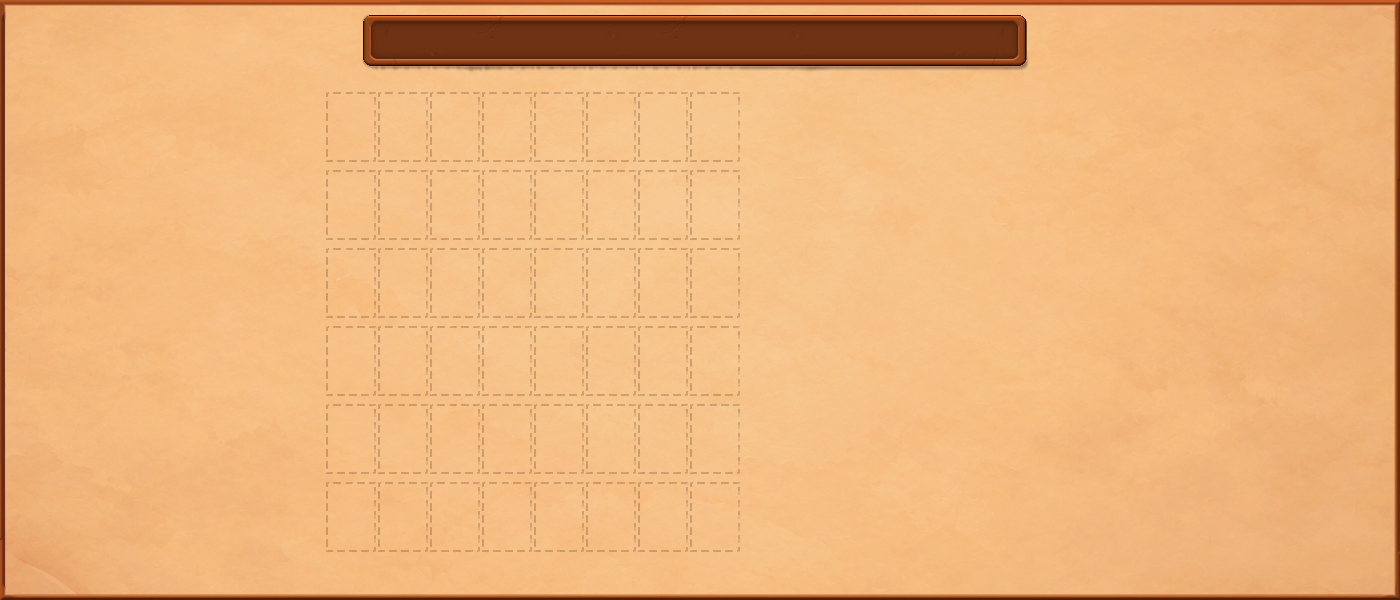
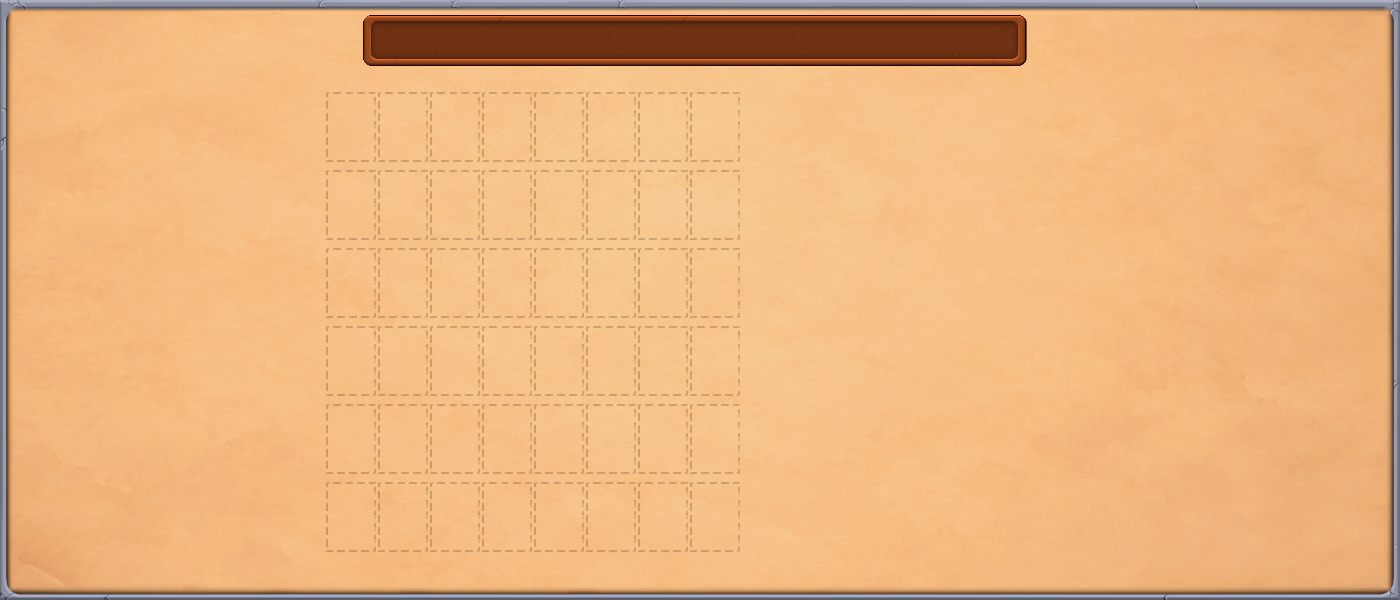
Withdraw v4.0.2 Almanac artwork restoration

Changed region(s): [[0.0, 0.0, 1.0, 1.0], [0.2764, 0.09, 0.7371, 0.12]]

diff --git a/pvzPerf/LawnApp.cpp b/pvzPerf/LawnApp.cpp
@@ -165,7 +165,7 @@ LawnApp::LawnApp()
 	mDebugKeysEnabled = false;
 	mFullCompanyName = "PopCap Games";
 	mProdName = "PopCap\\PlantsVsZombies";
-    mProductVersion = "4.0.2";
+    mProductVersion = "4.0.1";
 	std::string aTitleName = "pvz_perf";
 #ifdef _DEBUG
 	aTitleName += " BETA ";

diff --git a/assets/almanac-art.md b/assets/almanac-art.md
@@ -1,24 +1,122 @@
-# Almanac background artwork
+# Flat shared-paper Almanac
 
-The three pages retain 1400x600 canvases and original 800x600 content
-coordinates. Plant uses the native wooden frame; Zombie and Index use their
-own Almanac stone frames. No Challenge frame is blended into these pages.
+The Almanac uses the same complete neutral paper and outer stone frame as
+Survival, Puzzle and Minigames. This replaces the earlier composition that
+retained a large rectangle of original Almanac paper and matched added margins
+to its vignette. There are no added side shadows, inner paper outlines,
+vignette strips, or separately tinted margin rectangles.
 
-The three JPEGs under `assets/source-art/original/almanac/` were verified
-byte-for-byte against `C:/UserProgram/Plants_Vs_Zombies_V1.2.0.1073_EN/main.pak`.
-The title plaques and native baked shadows come from those JPEGs, not newly
-generated artwork. Shadow matting excludes the old paper outline.
+## Runtime Sources
 
-Pages are recomposed from the clean, continuous paper master, with the retained
-transparent functional-art layers at their existing coordinates. The former
-stone border is discarded completely: there are no cloned pixel strips,
-blurred texture patches or stretched edge pixels. Native frame rails extend
-by unscaled crops; their inner antialiasing composites over clean paper.
-Plant's original embossed paper outline is not imported into its frame.
+| Source | Dimensions | Format |
+| --- | --- | --- |
+| `runtime/images/Almanac_IndexBack.png` | 1400 x 600 | Opaque RGB PNG |
+| `runtime/images/Almanac_PlantBack.png` | 1400 x 600 | Opaque RGB PNG |
+| `runtime/images/Almanac_ZombieBack.png` | 1400 x 600 | Opaque RGB PNG |
 
-Runtime inputs remain `assets/source-art/ai/runtime/images/Almanac_{Index,Plant,Zombie}Back.png`.
-The layout, resource IDs, buttons, hit regions and 16-pixel background slicing
-are unchanged. All composition and shadow matting happen offline, with no
-additional drawing pass, runtime branch or filter.
+These replace the old 800 x 600 JPEGs. The logical resource IDs and
+extensionless paths remain unchanged. Do not retain both JPEG and PNG
+versions: image loading prefers JPEG. This change does not rebuild resources.
 
-Original game artwork retains its ownership and licensing terms.
+## Common Base
+
+Each page starts with the entire, unmodified
+`PlantsVsZombies/ReferenceResearch/Widescreen/paper-pages-1400/common-menu-paper-flat-1400.png`,
+1400 x 600 RGB. SHA-256:
[1 lines of base64/hex data omitted]
+
+The common base is a native 1400 x 600 crop, `(136,170)-(1536,770)`, of the
+preserved 1672 x 941 `source-art/ai/common-menu-paper-hires-v1.png`.
+The crop excludes the generated plaque and frame without resizing the paper.
+Its RGB offsets match unobstructed original Challenge paper; the final sample
+mean is `(246.48,194.47,136.85)`, compared with original
+`(246.28,194.81,137.09)`. The retained native stone comes from the previously
+approved 1066 x 600 shared bordered base: horizontal rails are extended by
+native crops, the outer eight pixels remain opaque, and the next eight blend
+into paper. There are no separately shaded or tinted margin panels.
+Challenge and all three Almanac pages use this exact base. The Almanac neither
+copies the Challenge title plaque nor changes any raw AI master.
+
+## Retained Functional Art
+
+Only independently masked UI objects are extracted from original JPEGs using
+`git show HEAD:assets/runtime/images/Almanac_<Page>Back.jpg`.
+Their world coordinates and native pixel dimensions remain unchanged.
+All objects are placed at canvas x = world x + 300. Their transparent layers
+are moved 167 pixels from the preceding 1066-wide canvas, without resizing
+or modifying their native RGB/alpha pixels.
+
+| Page | Original world crop, exclusive right/bottom | Retained object |
+| --- | --- | --- |
+| Index | `(100,15)-(702,84)` | Native stone title plaque |
+| Index | `(20,168)-(399,426)` | Wood plant display panel |
+| Index | `(400,165)-(781,434)` | Stone zombie display panel |
+| Plant | `(59,12)-(733,70)` | Native wood title plaque |
+| Zombie | `(32,17)-(770,75)` | Native stone title plaque |
+
+Stone masks select neutral/blue stone and dark outlines while rejecting warm
+paper. Enclosed dark details remain opaque. Wood masks select the wood's
+lower green values within the actual rounded object silhouette. Crop
+rectangles are not pasted as opaque paper patches. Real panel textures and
+their intrinsic bevels remain; no new shadow or outline is added.
+
+Plant slot guides are transplanted as ink, not paper. A 50 x 70 alpha template
+is recovered from the first unobstructed original slot at `(26,92)`.
+Only the two-pixel border is sampled; adjacent paper estimates recover the
+original dash opacity over brown ink. This template is placed in the existing
+8-column, 6-row arrangement, with 52 x 78 spacing. All slot interiors are
+transparent so the same common paper remains visible underneath.
+
+Old full-page paper, the inner rounded paper boundary, edge vignettes,
+background shadows and decorative plant/zombie watermarks are not imported.
+The separate runtime cards, grounds, windows, buttons, portraits, labels,
+scrollbars and their hit regions are unchanged.
+
+Original JPEG SHA-256:
+
+| Original | SHA-256 |
+| --- | --- |
[3 lines of base64/hex data omitted]
+
+## Coordinates And Verification
+
+`DrawAlmanacBackground` derives art padding from `(imageWidth - BOARD_WIDTH)/2`,
+which is 300 for the current 1400-wide source. Native 16-pixel edge strips
+follow the actual viewport bounds. The center uses source x =
+`artPadding + localBoundsLeft + 16`, width = `bounds.mWidth - 32`,
+where `localBoundsLeft = bounds.mX - dialog.mX`.
+At viewport width 800 the source interval is `[316,1084)`; at width 1400
+it is `[16,1384)`. Odd widths retain the extra pixel on the right.
+
+The dialog's local layout and input remain 800 x 600. Its X origin is
+`bounds.mX + (bounds.mWidth - 800)/2`, computed from the actual bounds rather
+than assuming symmetric margins. For battle bounds `(-220,0,1400,600)`,
+the local page origin is world x=80 and the background local left is -300.
+The title, panels and input therefore remain centered in the visible viewport,
+and source crops do not exceed the 1400-wide image.
+Global hover coordinates subtract the dialog origin; widget-dispatched local
+clicks and scrollbar coordinates retain their original geometry. If a resize
+changes the origin during Draw or MouseDown, that event's graphics/local X
+is adjusted by the origin delta. The Index button stays 32 pixels from the
+actual visible left edge, and the close button stays 35 pixels from the
+actual visible right edge. Both positions refresh together before button
+updates, drawing and clicks, retaining their original 800-wide margins.
+
+Outside the actual UI object masks, each output is pixel-identical to the
+complete common base. The outer frame is identical across all three pages.
+Checks cover all integer viewport widths from 800 through 1400, source crop
+bounds, full opaque coverage, frame pixels, unchanged title/panel coordinates,
+and equality to the common paper outside the functional overlays. Almanac
+checks also cover the battle viewport left clamped to -220, including
+hover/click round trips and resize origin changes: 4,207 page/viewport cases.
+
+Helper scripts, isolated transparent parts, masks, pixel reports and previews
+are kept outside the source repository under
+`PlantsVsZombies/ReferenceResearch/Widescreen/paper-pages-1400/`.
+The compositor is `ReferenceResearch/Widescreen/compose-paper-pages-1400.py`.
+The retained functional masks originated in `almanac-flat/`.
+No build, resource build, game launch or Git commit is part of this revision.
+
+Artwork retains its original ownership and licensing terms.

diff --git a/README.md b/README.md
@@ -2,7 +2,7 @@
 
 基于 [PvZ-Portable](https://github.com/wszqkzqk/PvZ-Portable) 修改，继续优化《植物大战僵尸》的 CPU 热路径、资源装载、图形提交和跨平台输入。游戏行为以零售 1073 为主要核对依据。
 
-**当前发行版：[v4.0.2](https://github.com/YuHao2006/pvz_perf/releases/tag/v4.0.2)，包含四个原生包和网页版。**
+**当前发行版：[v4.0.1](https://github.com/YuHao2006/pvz_perf/releases/tag/v4.0.1)，包含四个原生包和网页版。**
 
 版本号采用三段规则：**第一个数表示破坏性更新，第二个数表示功能更新，第三个数表示 bug 修复**。兼容性以各版发行说明为准。
 
@@ -20,7 +20,7 @@
 
 发行附件同时提供完美用户档、统一无尽基准、图集布局缓存和校验清单。完美档包含坚果包扎术。不要用个人进度覆盖仓库的性能基准。
 
-**v4.0.0 是破坏性更新，当前存档格式为 DAT64 v5.1 / schema `0x10747`。** 原生版与网页版通过独立的 DataFixerUpper（DFU）模块自动升级历史 DAT64 v4，并修复已确认的旧植物攻击动画卡死。正确的 v5.1 直接读取，不执行修复扫描。原版 DAT 可用附带转换器手动转换；未发布的 v3、v5.0 中间格式不支持。程序、DFU、shader、PAK64 必须成套更新。见[存档转换](docs/DAT-DAT64-CONVERSION.md)与[发行说明](docs/releases/v4.0.2.md)。
+**v4.0.0 是破坏性更新，当前存档格式为 DAT64 v5.1 / schema `0x10747`。** 原生版与网页版通过独立的 DataFixerUpper（DFU）模块自动升级历史 DAT64 v4，并修复已确认的旧植物攻击动画卡死。正确的 v5.1 直接读取，不执行修复扫描。原版 DAT 可用附带转换器手动转换；未发布的 v3、v5.0 中间格式不支持。程序、DFU、shader、PAK64 必须成套更新。见[存档转换](docs/DAT-DAT64-CONVERSION.md)与[发行说明](docs/releases/v4.0.1.md)。
 
 ## 设置与存档
 
